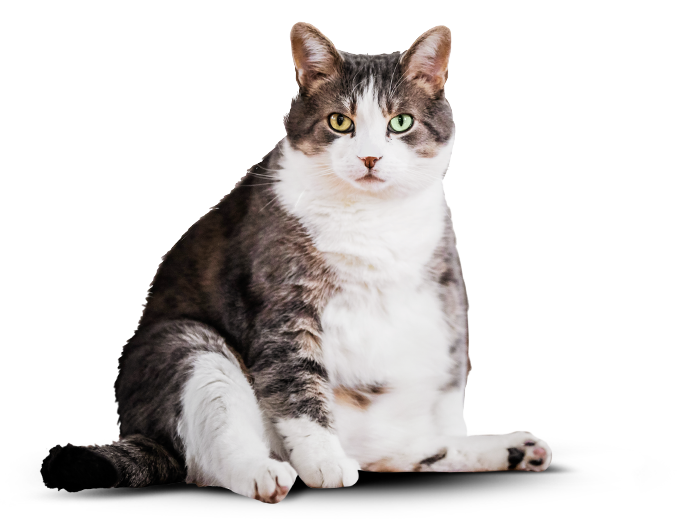
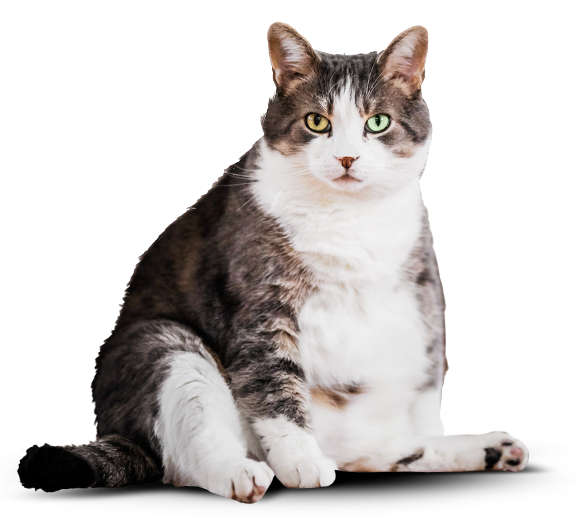
пп

Changed region(s): [[0.0312, 0.0308, 0.9688, 0.9846], [0.1875, 0.5538, 0.2188, 0.6462], [0.2188, 0.4923, 0.25, 0.5231]]

diff --git a/source/index.html b/source/index.html
@@ -139,7 +139,7 @@
             <div class="container">
               <div class="our-address__address-wrapper">
                 <div class="our-address__address">
-                  <p class="our-address__invitation">приглашаем<br> к сотрудничеству<br> дилеров!</p>
+                  <p class="our-address__invitation"><span class="our-address__invitation-text">приглашаем</span><br><span>к сотрудничеству<br> дилеров!</span></p>
                   <address class="our-address__contact"><p>ул. Большая<br> Конюшенная, д. 19/8</p>Санкт-Петербург</address>
                 </div>
               </div>
@@ -155,29 +155,39 @@
     <footer class="page-footer">
       <div class="page-footer__wrapper container">
         <div class="page-footer__logo">
-          <a class="page-footer__link"><img src="img/logo/logo-2.svg" width="128" height="24" alt="Логотип"></a>
+          <a class="page-footer__link"><img src="img/logo/logo-2.svg" width="128" height="27" alt="Логотип"></a>
         </div>
         <div class="page-footer__social social">
           <ul class="social__list">
             <li class="social__item">
               <a class="social__link social__link--vkontakte" href="https://vk.com/htmlacademy">
+                <svg width="23" height="16" viewBox="0 0 23 16" fill="none" xmlns="http://www.w3.org/2000/svg">
+                  <path d="M0.0700912 3.99266C0.0700912 3.37082 0.493211 3.03552 1.33945 2.98675L4.60039 3.00503C4.81925 3.00503 4.96515 3.09648 5.03811 3.27938C5.37368 4.19385 5.74938 4.98334 6.16521 5.64785C6.58103 6.31237 7.12453 7.07748 7.79568 7.94317C7.85404 8.05291 7.94888 8.10778 8.08019 8.10778C8.18233 8.10778 8.26257 8.0651 8.32093 7.97975L8.38659 7.77857L8.40848 4.6145C8.40848 4.39503 8.34647 4.24871 8.22245 4.17556C8.09843 4.1024 7.86863 4.04753 7.53305 4.01095C7.27043 3.97437 7.13912 3.84025 7.13912 3.60859C7.13912 3.55981 7.14641 3.52323 7.161 3.49885C7.4674 2.70631 8.34282 2.31004 9.78726 2.31004L11.0129 2.29175C11.5673 2.29175 12.0269 2.40758 12.3916 2.63925C12.7564 2.87091 12.9388 3.2367 12.9388 3.73661V7.88831C13.0409 7.94927 13.1357 7.97975 13.2233 7.97975C13.4421 7.97975 13.6318 7.87002 13.7923 7.65054C15.3973 5.77283 16.2654 4.51696 16.3967 3.88293C16.3967 3.87073 16.4113 3.84025 16.4405 3.79148C16.5426 3.60859 16.7104 3.45008 16.9438 3.31595C17.1773 3.18183 17.3815 3.09039 17.5566 3.04161C17.615 3.01723 17.6806 3.00503 17.7536 3.00503H21.1459L21.3647 3.02332C21.6565 3.02332 21.8827 3.13916 22.0432 3.37082C22.1015 3.44398 22.1416 3.52323 22.1635 3.60859C22.1854 3.69394 22.2 3.77929 22.2073 3.86464C22.2146 3.94999 22.2182 3.99876 22.2182 4.01095V4.13898C22.1161 4.63889 21.8571 5.17233 21.4413 5.7393C21.0255 6.30627 20.4966 6.91897 19.8546 7.57739C19.2126 8.2358 18.8114 8.66865 18.6509 8.87593C18.5196 9.02225 18.4539 9.15637 18.4539 9.2783C18.4539 9.37584 18.5123 9.48558 18.629 9.60751L21.8243 12.9728C21.9994 13.1678 22.0869 13.3812 22.0869 13.6129C22.0869 13.8933 21.9556 14.125 21.693 14.3079C21.4304 14.4908 21.1167 14.5944 20.7519 14.6188L20.3799 14.6371H17.0533C17.0387 14.6371 17.0095 14.6401 16.9657 14.6462C16.9219 14.6523 16.8928 14.6554 16.8782 14.6554C16.5572 14.6554 16.2581 14.5396 15.9809 14.3079C15.8787 14.2103 15.193 13.491 13.9236 12.1497C13.8507 12.0644 13.7485 11.9851 13.6172 11.912C13.5589 12.1071 13.4823 12.3875 13.3874 12.7533C13.2926 13.1191 13.2233 13.3812 13.1795 13.5397L13.1139 13.8506C12.968 14.2774 12.6616 14.5335 12.1947 14.6188L11.8883 14.6371H9.74349C8.53249 14.6371 7.32514 14.1738 6.12144 13.2471C4.91773 12.3204 3.8344 11.1225 2.87144 9.65323C1.90848 8.18398 1.01117 6.47392 0.179519 4.52306C0.106567 4.36455 0.0700912 4.18775 0.0700912 3.99266ZM13.2233 8.72962C12.9169 8.72962 12.6397 8.65951 12.3916 8.51929C12.1436 8.37907 12.0196 8.18703 12.0196 7.94317V3.73661C12.0196 3.49275 11.9466 3.319 11.8007 3.21536C11.6548 3.11172 11.3995 3.0599 11.0347 3.0599L9.78726 3.09648C9.15988 3.09648 8.68569 3.18793 8.36471 3.37082C9.00668 3.62687 9.32767 4.04143 9.32767 4.6145V7.83344C9.29849 8.13826 9.15258 8.39126 8.88996 8.59245C8.62733 8.79363 8.33552 8.89422 8.01454 8.89422C7.57683 8.89422 7.24125 8.71742 7.0078 8.36383C5.86975 6.92506 5.02351 5.55945 4.46908 4.267L4.27211 3.79148L1.36134 3.77319C1.17166 3.77319 1.06588 3.78233 1.044 3.80062C1.02211 3.81891 1.01117 3.87073 1.01117 3.95608C1.01117 4.06582 1.02576 4.18165 1.05494 4.30358L1.51454 5.32779C2.74013 7.97366 4.07149 10.0586 5.50864 11.5828C6.94579 13.1069 8.35741 13.8689 9.74349 13.8689H11.932C12.0196 13.8689 12.0852 13.8476 12.129 13.8049C12.1728 13.7623 12.2093 13.6799 12.2384 13.558L12.2822 13.3751L12.698 11.7657C12.8148 11.5462 12.9169 11.3999 13.0044 11.3267C13.1649 11.1926 13.3546 11.1255 13.5735 11.1255C13.9236 11.1255 14.2811 11.3023 14.6459 11.6559L16.5061 13.6312C16.6228 13.7897 16.7469 13.8689 16.8782 13.8689H20.4893C20.927 13.8689 21.1459 13.7775 21.1459 13.5946C21.1459 13.5336 21.124 13.4727 21.0802 13.4117L17.9068 10.1013C17.6588 9.84527 17.5347 9.57093 17.5347 9.2783C17.5347 8.98567 17.6515 8.70523 17.8849 8.43699C18.0746 8.19313 18.443 7.78771 18.9901 7.22074C19.5373 6.65377 20.0151 6.12338 20.4236 5.62956C20.8322 5.13575 21.1021 4.68766 21.2334 4.28529L21.299 4.04753C21.2845 4.02314 21.2772 3.98352 21.2772 3.92865C21.2772 3.87378 21.2699 3.82806 21.2553 3.79148H17.8193C17.6004 3.86464 17.4253 3.97437 17.294 4.12069L17.1627 4.46819C16.7979 5.3095 15.8423 6.60805 14.2957 8.36383C13.9893 8.60769 13.6318 8.72962 13.2233 8.72962Z" fill="#666666"/>
+                </svg>
                 <span class="visually-hidden">Мы в Вконтакте</span>
               </a>
             </li>
             <li class="social__item">
-              <a class="social__link social__link--facebook" href="https://www.facebook.com/htmlacademy">
-                <span class="visually-hidden">Мы в Фейсбуке</span>
+              <a class="social__link social__link--instagram" href="https://www.instagram.com/htmlacademy">
+                <svg width="16" height="16" viewBox="0 0 16 16" fill="none" xmlns="http://www.w3.org/2000/svg">
+                  <path d="M7.98438 0.0625C9.31771 0.0625 10.4062 0.078125 11.25 0.109375C11.9688 0.140625 12.6094 0.265625 13.1719 0.484375C13.7135 0.692708 14.1823 0.994792 14.5781 1.39062C14.974 1.78646 15.276 2.25521 15.4844 2.79687C15.7031 3.35937 15.8281 4 15.8594 4.71875C15.8906 5.5625 15.9062 6.65104 15.9062 7.98437C15.9062 9.31771 15.8906 10.4062 15.8594 11.25C15.8281 11.9687 15.7031 12.6094 15.4844 13.1719C15.276 13.7135 14.974 14.1823 14.5781 14.5781C14.1823 14.974 13.7135 15.276 13.1719 15.4844C12.6094 15.7031 11.9688 15.8281 11.25 15.8594C10.4062 15.8906 9.31771 15.9062 7.98438 15.9062C6.65104 15.9062 5.5625 15.8906 4.71875 15.8594C4 15.8281 3.35938 15.7031 2.79688 15.4844C2.25521 15.276 1.78646 14.974 1.39062 14.5781C0.994792 14.1823 0.692708 13.7135 0.484375 13.1719C0.265625 12.6094 0.140625 11.9687 0.109375 11.25C0.078125 10.4062 0.0625 9.31771 0.0625 7.98437C0.0625 6.65104 0.078125 5.5625 0.109375 4.71875C0.140625 4 0.265625 3.35937 0.484375 2.79687C0.692708 2.25521 0.994792 1.78646 1.39062 1.39062C1.78646 0.994792 2.25521 0.692708 2.79688 0.484375C3.35938 0.265625 4 0.140625 4.71875 0.109375C5.5625 0.078125 6.65104 0.0625 7.98438 0.0625ZM7.98438 1.09375C6.59896 1.09375 5.46875 1.10937 4.59375 1.14062C4.03125 1.16146 3.51042 1.26042 3.03125 1.4375C2.28125 1.75 1.75 2.28125 1.4375 3.03125C1.26042 3.51042 1.16146 4.03125 1.14062 4.59375C1.10938 5.46875 1.09375 6.59896 1.09375 7.98437C1.09375 9.36979 1.10938 10.5 1.14062 11.375C1.16146 11.9375 1.26042 12.4583 1.4375 12.9375C1.75 13.6875 2.28125 14.2187 3.03125 14.5312C3.51042 14.7083 4.03125 14.8073 4.59375 14.8281C5.46875 14.8594 6.59896 14.875 7.98438 14.875C9.36979 14.875 10.5 14.8594 11.375 14.8281C11.9375 14.8073 12.4583 14.7083 12.9375 14.5312C13.6875 14.2187 14.2188 13.6875 14.5312 12.9375C14.7083 12.4583 14.8073 11.9375 14.8281 11.375C14.8594 10.5 14.875 9.36979 14.875 7.98437C14.875 6.59896 14.8594 5.46875 14.8281 4.59375C14.8073 4.03125 14.7083 3.51042 14.5312 3.03125C14.2188 2.28125 13.6875 1.75 12.9375 1.4375C12.4583 1.26042 11.9375 1.16146 11.375 1.14062C10.5 1.10937 9.36979 1.09375 7.98438 1.09375ZM7.98438 11.1562C8.85938 11.1562 9.60677 10.8464 10.2266 10.2266C10.8464 9.60677 11.1562 8.85937 11.1562 7.98437C11.1562 7.10937 10.8464 6.36198 10.2266 5.74219C9.60677 5.1224 8.85938 4.8125 7.98438 4.8125C7.10938 4.8125 6.36198 5.1224 5.74219 5.74219C5.1224 6.36198 4.8125 7.10937 4.8125 7.98437C4.8125 8.85937 5.1224 9.60677 5.74219 10.2266C6.36198 10.8464 7.10938 11.1562 7.98438 11.1562ZM7.98438 3.92187C9.10938 3.92187 10.0677 4.31771 10.8594 5.10937C11.651 5.90104 12.0469 6.85937 12.0469 7.98437C12.0469 9.10937 11.651 10.0677 10.8594 10.8594C10.0677 11.651 9.10938 12.0469 7.98438 12.0469C6.85938 12.0469 5.90104 11.651 5.10938 10.8594C4.31771 10.0677 3.92188 9.10937 3.92188 7.98437C3.92188 6.85937 4.31771 5.90104 5.10938 5.10937C5.90104 4.31771 6.85938 3.92187 7.98438 3.92187ZM13.1719 3.76562C13.1719 4.02604 13.0781 4.2474 12.8906 4.42969C12.7031 4.61198 12.474 4.70312 12.2031 4.70312C11.9427 4.70312 11.7214 4.61198 11.5391 4.42969C11.3568 4.2474 11.2656 4.02604 11.2656 3.76562C11.2656 3.49479 11.3568 3.26562 11.5391 3.07812C11.7214 2.89062 11.9427 2.79687 12.2031 2.79687C12.4635 2.79687 12.6901 2.89323 12.8828 3.08594C13.0755 3.27865 13.1719 3.50521 13.1719 3.76562Z" fill="#666666"/>
+                </svg>
+                <span class="visually-hidden">Мы в Инстаграме</span>
               </a>
             </li>
             <li class="social__item">
-              <a class="social__link social__link--instagram" href="https://www.instagram.com/htmlacademy">
-                <span class="visually-hidden">Мы в Инстаграме</span>
+              <a class="social__link social__link--facebook" href="https://www.facebook.com/htmlacademy">
+                <svg width="22" height="22" viewBox="0 0 22 22" fill="none" xmlns="http://www.w3.org/2000/svg">
+                  <path d="M16.5 1.83325H13.75C12.5344 1.83325 11.3686 2.30674 10.5091 3.14957C9.64956 3.99239 9.16667 5.1355 9.16667 6.32743V9.02394H6.41667V12.6193H9.16667V19.81H12.8333V12.6193H15.5833L16.5 9.02394H12.8333V6.32743C12.8333 6.08905 12.9299 5.86042 13.1018 5.69186C13.2737 5.52329 13.5069 5.4286 13.75 5.4286H16.5V1.83325Z" stroke="#666666" stroke-width="1.1" stroke-linecap="round" stroke-linejoin="round"/>
+                </svg>
+                <span class="visually-hidden">Мы в Фейсбуке</span>
               </a>
             </li>
           </ul>
         </div>
         <div class="page-footer__copyright copyright">
-          <a class="copyright__text copyright__text-link" href="https://htmlacademy.ru/intensive/adaptive">HTML Academy
+          <a class="copyright__link" href="https://htmlacademy.ru/intensive/adaptive">
+            <p class="copyright__text">HTML Academy</p>
             <svg class="copyright__logo" width="27" height="34" viewBox="0 0 27 34" fill="none" xmlns="http://www.w3.org/2000/svg">
               <path d="M13.6426 0.0157537L13.5 0L0 1.40733V26.0129L13.5 34L27 26.0129V1.40733L13.6426 0.0157537ZM25.2344 25.0151L13.5 31.9573L1.76561 25.0151V14.9293L13.4507 21.8451L13.4701 23.0984L5.45351 18.3548L5.44295 19.5801L13.4894 24.3885L13.5088 25.675L5.46408 20.9174L5.45351 22.1427L13.5 26.9511L21.6239 22.1182V20.8929V16.909L25.2432 14.7595L25.2344 25.0151ZM25.2344 13.4519L22.0147 15.3319L20.5325 16.2071L13.4666 12.0201L13.456 13.2454L19.4957 16.818L19.4429 16.8495L19.3126 16.9247L18.4536 17.4166L13.4666 14.4689L13.456 15.6942L17.3921 18.0222L16.4591 18.6314L16.438 18.6436L13.4666 16.902L13.456 18.1273L15.4029 19.2615L13.4155 20.4483L1.7973 13.5762L13.4349 6.61831L25.2344 13.4519ZM25.2344 12.2266L13.4401 5.31075L1.76561 12.2196V2.9897L13.5 1.76442L25.2344 2.9897V12.2266Z" fill="#666666"/>
             </svg>

diff --git a/source/sass/blocks/example.scss b/source/sass/blocks/example.scss
@@ -21,7 +21,7 @@
 
 .example__choice-wrapper {
   text-align: center;
-  padding-bottom: 29px;
+  padding-bottom: 34px;
 
   @media (min-width: $tablet-width) {
     padding-bottom: 44px;
@@ -138,7 +138,7 @@
   color: $basic-black;
   text-transform: uppercase;
   text-align: center;
-  margin-bottom: 297px;
+  margin-bottom: 35px;
 
   @media (min-width: $tablet-width) {
     display: flex;
@@ -190,14 +190,15 @@
 }
 
 .example__cat-fat {
+  position: absolute;
+  width: 270px;
+  left: -11px;
+  height: 240px;
+
   @media (min-width: $tablet-width) {
     width: 677px;
     height: 536px;
   }
-}
-
-.example__cat-image {
-  position: absolute;
 }
 
 .example__cat-skinny {
@@ -209,4 +210,10 @@
 
 .cat-hidden {
   display: none;
+}
+
+.example__cat-image {
+  position: relative;
+  min-height: 240px;
+  margin-bottom: 31px;
 }

diff --git a/source/sass/blocks/our-address.scss b/source/sass/blocks/our-address.scss
@@ -16,7 +16,7 @@
 
 .our-address__address {
   display: flex;
-  justify-content: space-between;
+  padding: 23px 0 26px 0;
 
   @media (min-width: $tablet-width) {
     padding-top: 65px;
@@ -39,7 +39,7 @@
   line-height: 18px;
   color: $special-black;
   text-transform: uppercase;
-  margin: 0;
+  margin: 0 19px 0 0;
 
   @media (min-width: $tablet-width) {
     font-size: 20px;
@@ -55,7 +55,8 @@
   font-style: normal;
   font-size: 14px;
   line-height: 20px;
-  text-align: end;
+  text-align: start;
+  margin-top: 5px;
 
   @media (min-width: $tablet-width) {
     font-size: 16px;
@@ -109,4 +110,8 @@
   @media (min-width: $tablet-width) {
     height: 400px;
   }
+}
+
+.our-address__invitation-text {
+  line-height: 28px;
 }

diff --git a/source/sass/blocks/social.scss b/source/sass/blocks/social.scss
@@ -1,5 +1,5 @@
 .social {
-  padding: 20px 77px 21px 73px;
+  padding: 22px 77px 14px 73px;
   border-top: 1px solid $dark-grey;
   border-bottom: 1px solid $dark-grey;
   margin-bottom: 22px;
@@ -12,5 +12,22 @@
 
 .social__list {
   list-style: none;
+  margin: 0;
+  padding: 0;
   display: flex;
+  justify-content: space-between;
+}
+
+.copyright__link {
+  display: flex;
+  justify-content: space-between;
+}
+
+.copyright__text {
+  font-family: "Arial", sans-serif;
+  font-weight: 400;
+  font-style: normal;
+  font-size: 16px;
+  line-height: 18px;
+  margin: 8px 0 0 0;
 }

diff --git a/source/sass/blocks/page-footer.scss b/source/sass/blocks/page-footer.scss
@@ -3,8 +3,8 @@
 }
 
 .page-footer__wrapper {
-  padding-top: 39px;
-  padding-bottom: 22px;
+  padding-top: 33px;
+  padding-bottom: 10px;
 
   @media (min-width: $tablet-width) {
     display: flex;
@@ -13,7 +13,7 @@
 }
 
 .page-footer__logo {
-  margin-bottom: 32px;
+  margin-bottom: 26px;
   text-align: center;
 
   @media (min-width: $tablet-width) {

diff --git a/source/sass/blocks/functional-food.scss b/source/sass/blocks/functional-food.scss
@@ -21,7 +21,6 @@
   }
 }
 
-
 .functional-food__title {
   margin: 0 auto;
   font-family: "Oswald", "Arial", sans-serif;
